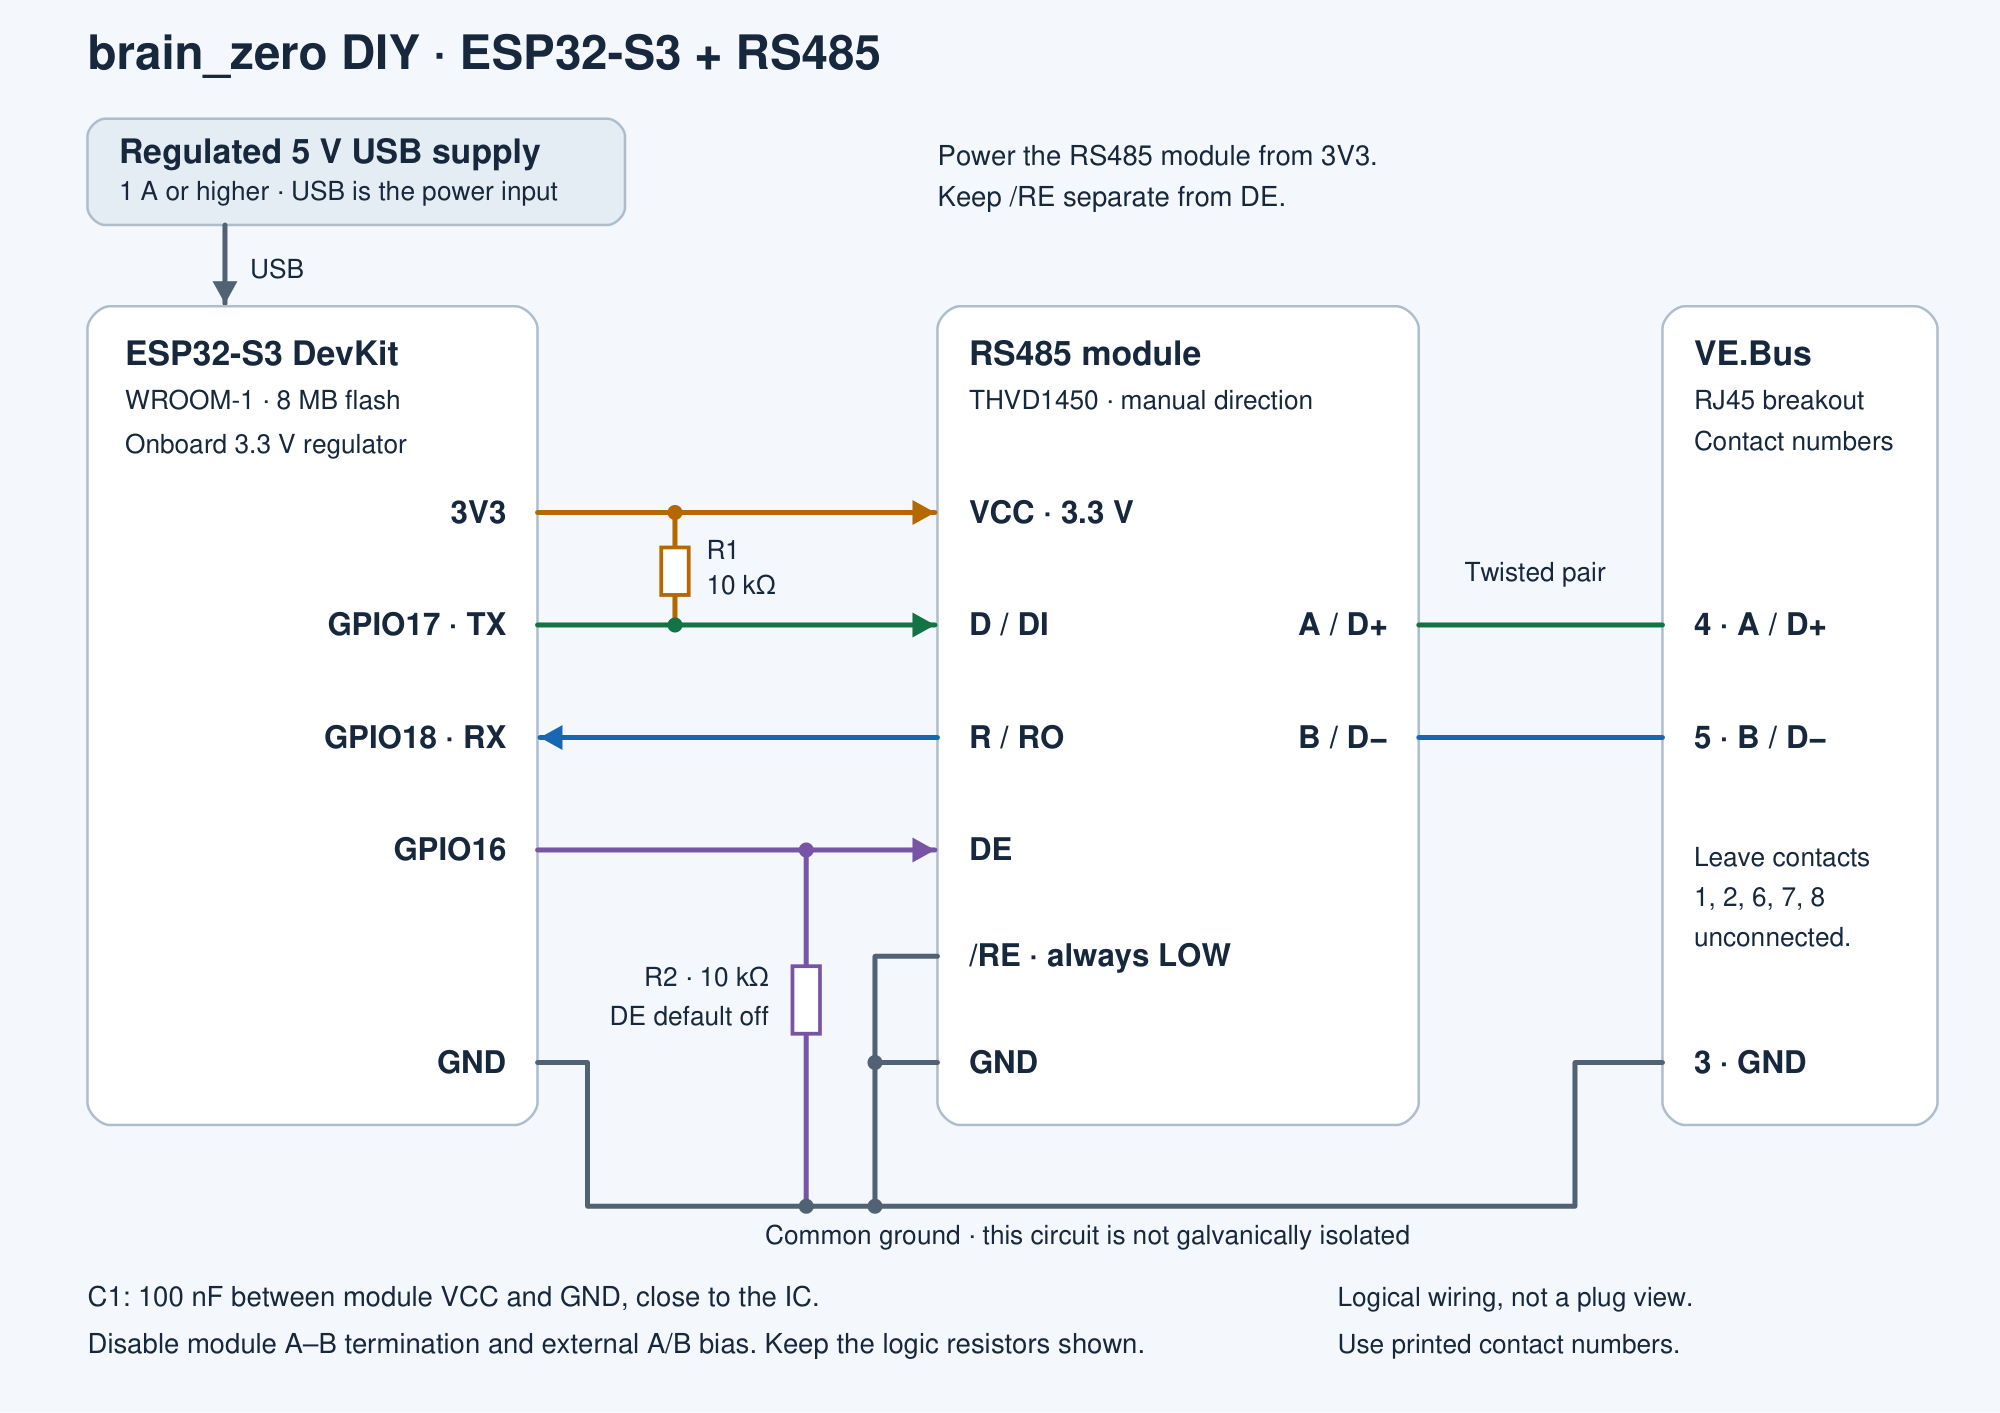
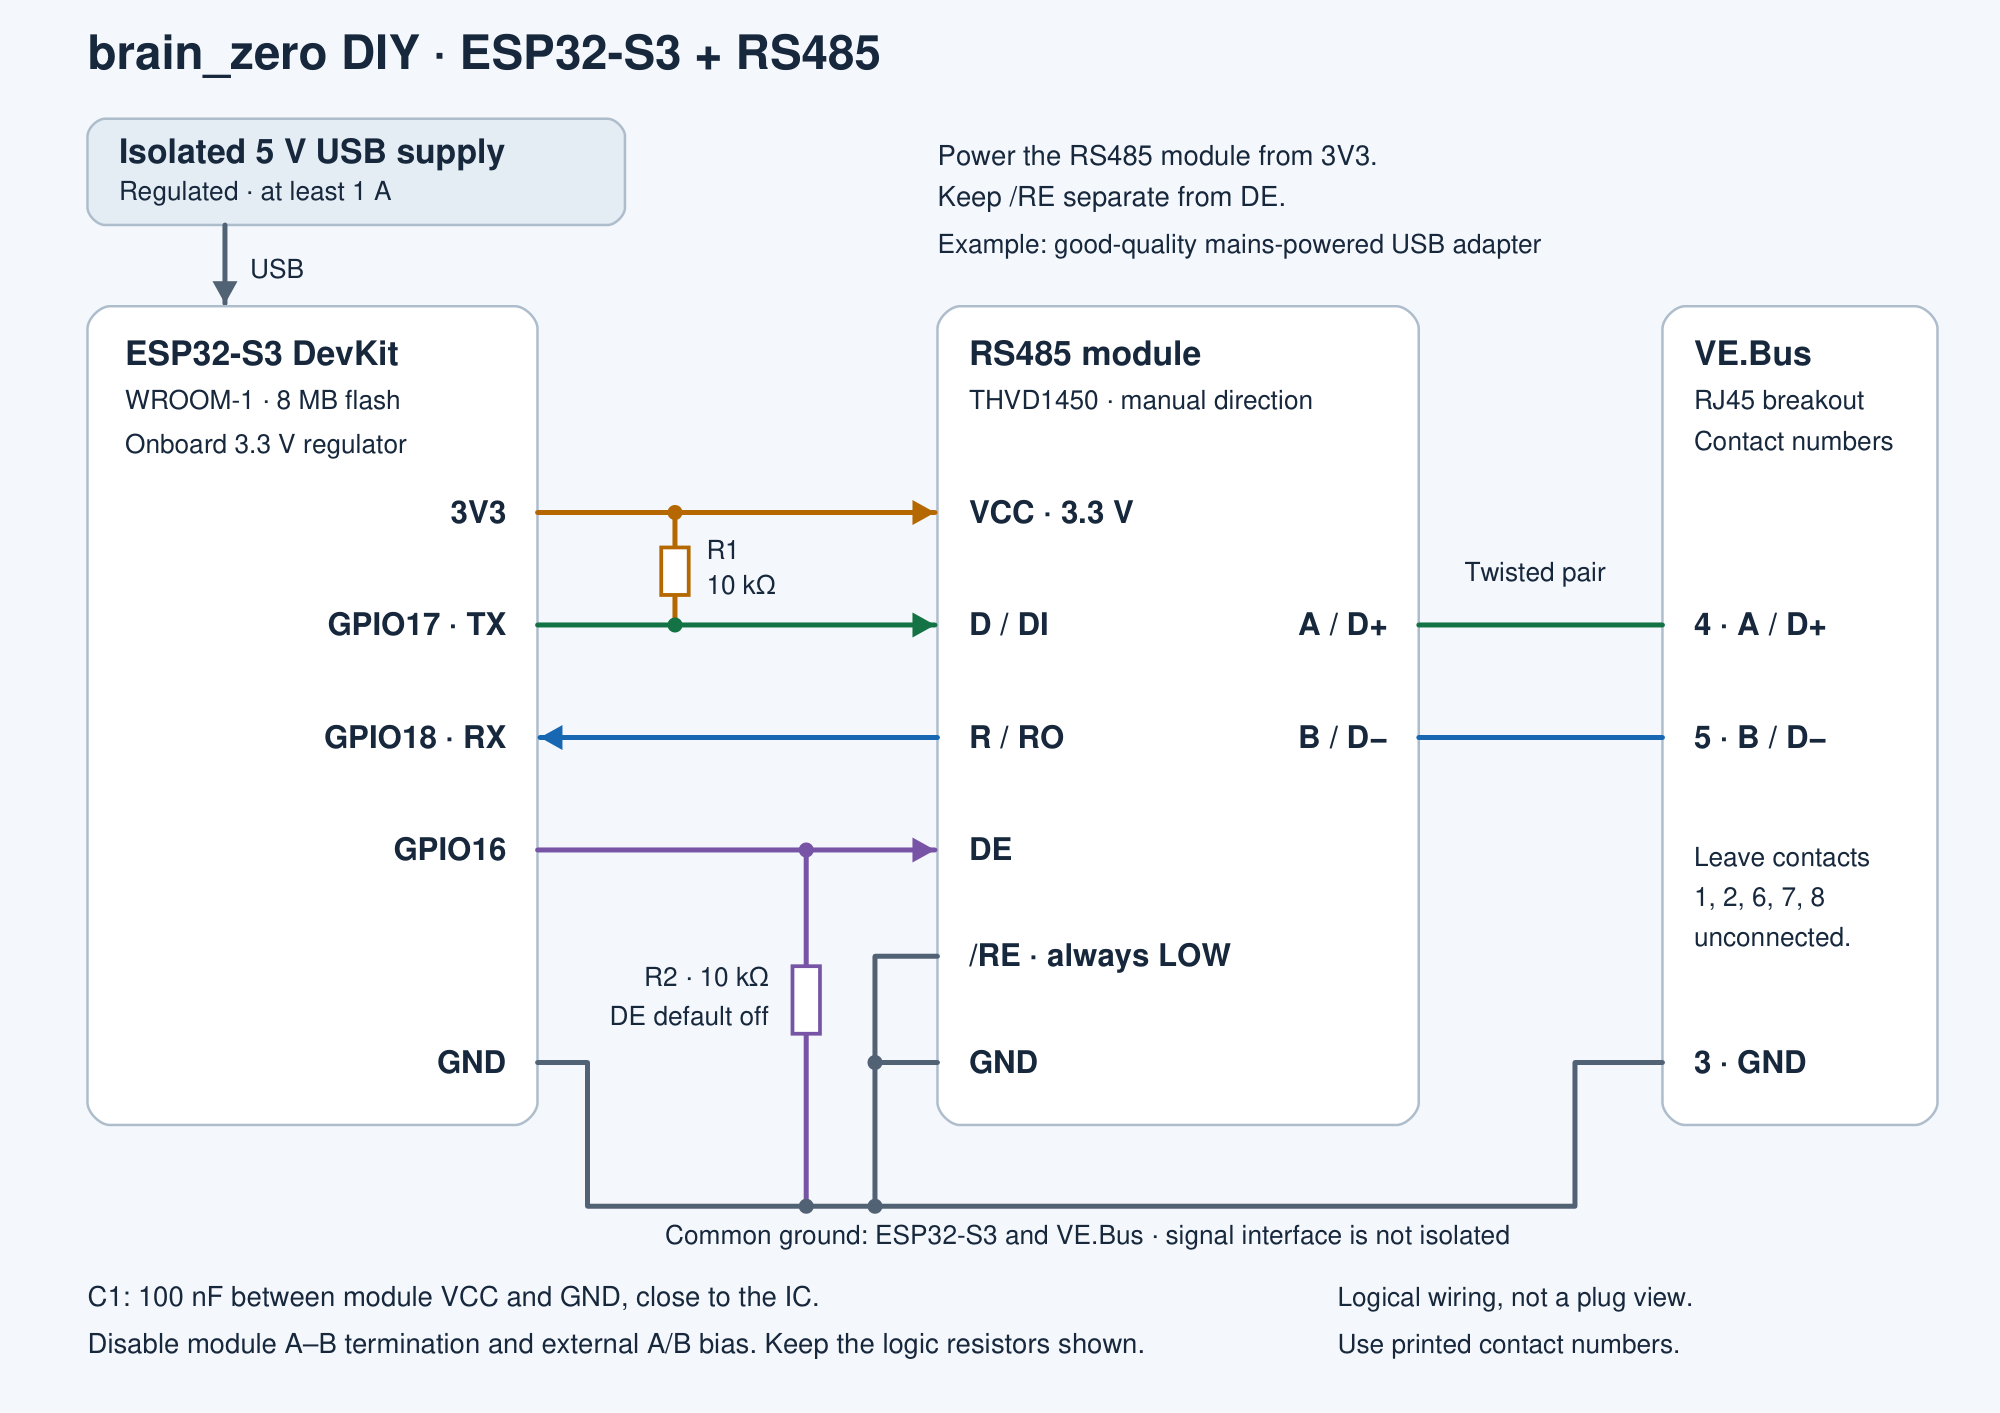
Require an isolated 5 V supply in the DIY guide

Changed region(s): [[0.062, 0.0934, 0.279, 0.1557], [0.341, 0.8719, 0.744, 0.903], [0.465, 0.1557, 0.775, 0.1868]]

diff --git a/docs/diy-esp32-s3.md b/docs/diy-esp32-s3.md
@@ -1,6 +1,6 @@
 # Build a 5 V brain_zero with an ESP32-S3 development board
 
-Build an externally powered brain_zero using an ESP32-S3-WROOM development board, a manual-direction RS485 module and a numbered RJ45 breakout. Power comes from a 5 V USB supply. The development board supplies 3.3 V to the RS485 module; only three contacts connect to the inverter's VE.Bus socket.
+Build an externally powered brain_zero using an ESP32-S3-WROOM development board, a manual-direction RS485 module and a numbered RJ45 breakout. Use an **isolated, regulated 5 V supply**, for example a good-quality, safety-approved mains-powered USB adapter. The development board supplies 3.3 V to the RS485 module; only three contacts connect to the inverter's VE.Bus socket.
 
 The wiring below matches Rev C's schematic and current firmware. Third-party development boards and RS485 breakouts vary; check your chosen assembly on the bench before connecting it to the inverter. Inverter support follows the [main compatibility table](../README.md#multiplus-ii-compatibility).
 
@@ -11,7 +11,7 @@ The wiring below matches Rev C's schematic and current firmware. Third-party dev
 | ESP32-S3 development board | A complete DevKitC-1-style board with an ESP32-S3-WROOM-1 module, **8 MB quad-SPI flash**, onboard 3.3 V regulator, native USB, BOOT and RESET buttons, and accessible GPIO16, GPIO17 and GPIO18. The firmware's default PlatformIO target is the N8 configuration; PSRAM is not used. |
 | RS485 module | A **THVD1450** breakout operated at **3.3 V**, with separate **D/DI, R/RO, DE, /RE, A and B** connections. This is the transceiver used on Rev C. Choose a board whose bus termination and bias resistors can be disabled. |
 | RJ45 breakout and cable | A plain, unmagnetised, numbered 8P8C screw-terminal breakout and a straight-through network cable. |
-| Power | A regulated **5 V USB supply rated for at least 1 A**, plus a USB data cable for programming. A USB power bank can supply the finished device. |
+| Power | An **isolated, regulated 5 V USB supply rated for at least 1 A**, such as a good-quality, safety-approved mains-powered USB adapter. A standalone USB power bank is another option. Use a USB data cable for programming. |
 | Small parts | Two 10 kΩ resistors and one 100 nF ceramic capacitor, if the module does not already provide the connections shown below. |
 | Assembly tools | Short insulated wires, soldering equipment or secure screw terminals, a multimeter and an insulating enclosure. |
 
@@ -33,7 +33,7 @@ Disable the module's **120 Ω A-to-B termination** and any external **A/B pull-u
 
 | From | To | Purpose |
 | --- | --- | --- |
-| 5 V USB supply | Development board's USB power input | Powers the board and its onboard regulator |
+| Isolated 5 V USB supply | Development board's USB power input | Powers the board and its onboard regulator |
 | Development board **3V3** | RS485 **VCC** | 3.3 V transceiver supply |
 | Development board **GND** | RS485 **GND** and RJ45 **contact 3** | Common signal reference |
 | **GPIO17** | RS485 **D / DI** | UART transmit data |
@@ -50,7 +50,7 @@ Leave RJ45 contacts **1, 2, 6, 7 and 8 unconnected in this build**. Contact 2 is
 
 Use the board's **GPIO numbers**, rather than counting header positions. Pins printed simply **TX** and **RX** on many S3 boards are the separate programming UART, not GPIO17 and GPIO18. Follow the transceiver IC's A/B polarity if a breakout uses different `+`/`−` labels.
 
-Keep the GPIO wiring short and retain the cable's twisted pair for contacts 4 and 5. This is a non-isolated interface: USB ground and VE.Bus contact 3 are connected. Program it on the bench with VE.Bus disconnected, then operate it from a suitably isolated USB power supply or power bank.
+Keep the GPIO wiring short and retain the cable's twisted pair for contacts 4 and 5. This is a non-isolated interface: USB ground and VE.Bus contact 3 are connected. **The external 5 V supply must provide galvanic isolation**, for example a good-quality, safety-approved mains-powered USB adapter. Program it on the bench with VE.Bus disconnected, then use the isolated supply or a standalone power bank for operation.
 
 ## Assemble and check the circuit
 
@@ -60,7 +60,7 @@ Keep the GPIO wiring short and retain the cable's twisted pair for contacts 4 an
 4. Check the RJ45 breakout's contacts 3, 4 and 5 against the cable. Check for supply shorts and unintended connections to the unused contacts.
 5. Power the development board through USB, with VE.Bus still disconnected. Measure approximately 3.3 V between the module's VCC and GND.
 
-For an external wired 5 V supply, use the development board's **5V** and **GND** inputs instead of USB power. Disconnect that supply before attaching a computer's USB cable. Never apply 5 V to the board's **3V3** pin or to a GPIO.
+For an external wired 5 V supply, use the development board's **5V** and **GND** inputs instead of USB power. **That supply must also be isolated.** Disconnect it before attaching a computer's USB cable. Never apply 5 V to the board's **3V3** pin or to a GPIO.
 
 ## Build and flash brain_zero
 
@@ -122,7 +122,7 @@ The native USB port may change after flashing. Close the monitor before the next
 
 ## Connect to the inverter
 
-1. Disconnect the programming computer. Power the device from its operating USB supply, then use the straight-through cable to connect the breakout to the inverter's **VE.Bus** socket. The similar-looking Ethernet, VE.Can and battery BMS sockets are different interfaces.
+1. Disconnect the programming computer. Power the device from its **isolated 5 V USB supply**, then use the straight-through cable to connect the breakout to the inverter's **VE.Bus** socket. The similar-looking Ethernet, VE.Can and battery BMS sockets are different interfaces.
 2. Leave **Run ESS from this ESP32** off during the first checks. Open **System → Diagnostics** and verify that inverter frames arrive, the detected model and firmware are correct, and the live voltage readings match your system.
 3. Before enabling ESS, check the [supported model and firmware list](../README.md#multiplus-ii-compatibility) and make this device the sole controller for the standalone inverter. Remove the previous GX/MK3 controller from that VE.Bus connection when handing over control.
 4. Configure ESS deliberately in the web interface, then check acknowledgements and the resulting operating state in Diagnostics. For an unsupported inverter/firmware combination, use **System → Inverter settings → Submit to developer**.
